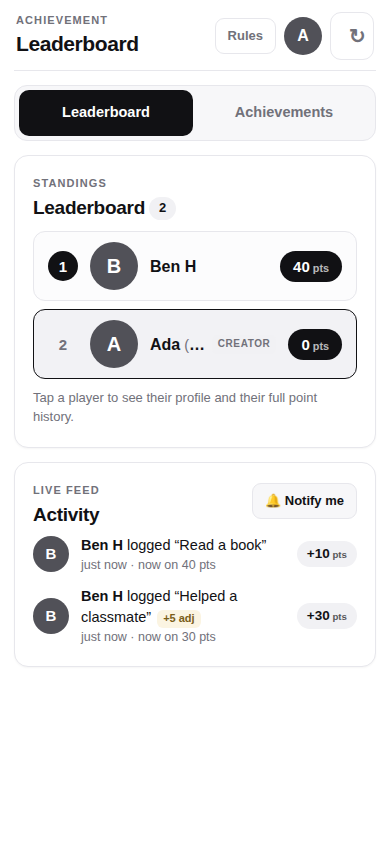
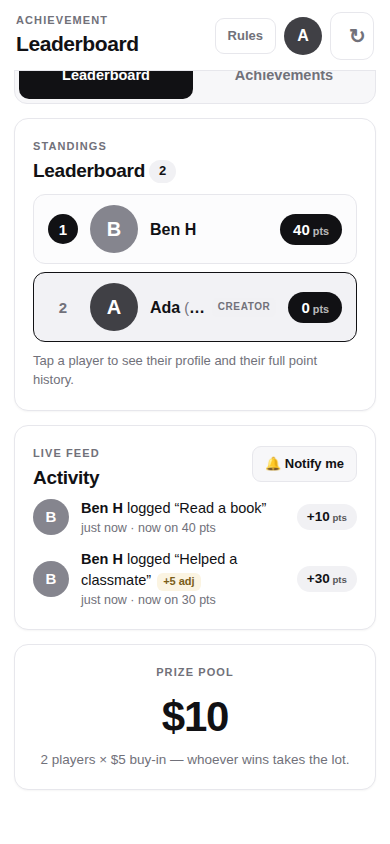
Add a live prize-pool counter under the live feed
A Prize pool card shows $5 times the current number of players in a
large dollar figure ('9 players x $5 buy-in — whoever wins takes the
lot'). It sits directly below the live feed in the right column on
desktop and under the feed on phones, and updates live as the roster
grows since it derives from the same player subscription.

Claude-Session: https://claude.ai/code/session_01LYf2avMi716NYizWVeRaHF

diff --git a/achievement-leaderboard.html b/achievement-leaderboard.html
@@ -312,6 +312,12 @@
     border-radius: 12px; padding: 28px 20px; color: var(--muted);
   }
   .feed-empty-title { font-weight: 700; font-size: 15.5px; color: var(--ink); margin-bottom: 4px; }
+  .pool-card { text-align: center; }
+  .pool-num {
+    font-size: 42px; font-weight: 800; letter-spacing: -0.03em;
+    font-variant-numeric: tabular-nums; margin: 6px 0 2px;
+  }
+  .pool-sub { color: var(--muted); font-size: 13.5px; margin: 0; }
   .feed-empty p { margin: 0; font-size: 14px; }
   .side-head { display: flex; justify-content: space-between; align-items: flex-start; gap: 10px; }
   .side-head .h2 { margin-bottom: 6px; }
@@ -1788,6 +1794,7 @@ function(a,b,c){if(!Vd(b))throw Error(m(200));return Wd(null,a,b,!1,c)};Q.unmoun
         <div className="col-main">${body}</div>
         ${showSide ? html`<aside className="side-feed">
           <${FeedPanel} logs=${logs} players=${players} achById=${achById} />
+          <${PoolCard} count=${Object.keys(players).length} />
         </aside>` : null}
       </div>
       ${statsFor ? html`<${Sheet} onClose=${function () { setStatsFor(null); }}>
@@ -2294,6 +2301,17 @@ function(a,b,c){if(!Vd(b))throw Error(m(200));return Wd(null,a,b,!1,c)};Q.unmoun
     </section>`;
   }
 
+  /* live prize pool: $5 buy-in times everyone currently in the game */
+  var BUY_IN = 5;
+  function PoolCard(props) {
+    var n = props.count;
+    return html`<section className="card pool-card">
+      <span className="eyebrow">Prize pool</span>
+      <div className="pool-num">$${fmtPts(n * BUY_IN)}</div>
+      <p className="pool-sub">${n} ${n === 1 ? 'player' : 'players'} \u00D7 $${BUY_IN} buy-in \u2014 whoever wins takes the lot.</p>
+    </section>`;
+  }
+
   function BoardTab(props) {
     var mode = props.mode || 'live';
     var isRoster = mode === 'roster';
@@ -2338,6 +2356,7 @@ function(a,b,c){if(!Vd(b))throw Error(m(200));return Wd(null,a,b,!1,c)};Q.unmoun
       </section>
       ${html`<div className="feed-inline">
         <${FeedPanel} logs=${props.logs} players=${props.players} achById=${props.achById} />
+        <${PoolCard} count=${Object.keys(props.players).length} />
       </div>`}
     </main>`;
   }

diff --git a/index.html b/index.html
@@ -318,6 +318,12 @@
     border-radius: 12px; padding: 28px 20px; color: var(--muted);
   }
   .feed-empty-title { font-weight: 700; font-size: 15.5px; color: var(--ink); margin-bottom: 4px; }
+  .pool-card { text-align: center; }
+  .pool-num {
+    font-size: 42px; font-weight: 800; letter-spacing: -0.03em;
+    font-variant-numeric: tabular-nums; margin: 6px 0 2px;
+  }
+  .pool-sub { color: var(--muted); font-size: 13.5px; margin: 0; }
   .feed-empty p { margin: 0; font-size: 14px; }
   .side-head { display: flex; justify-content: space-between; align-items: flex-start; gap: 10px; }
   .side-head .h2 { margin-bottom: 6px; }
@@ -1833,6 +1839,7 @@ function(a,b,c){if(!Vd(b))throw Error(m(200));return Wd(null,a,b,!1,c)};Q.unmoun
         <div className="col-main">${body}</div>
         ${showSide ? html`<aside className="side-feed">
           <${FeedPanel} logs=${logs} players=${players} achById=${achById} />
+          <${PoolCard} count=${Object.keys(players).length} />
         </aside>` : null}
       </div>
       ${statsFor ? html`<${Sheet} onClose=${function () { setStatsFor(null); }}>
@@ -2339,6 +2346,17 @@ function(a,b,c){if(!Vd(b))throw Error(m(200));return Wd(null,a,b,!1,c)};Q.unmoun
     </section>`;
   }
 
+  /* live prize pool: $5 buy-in times everyone currently in the game */
+  var BUY_IN = 5;
+  function PoolCard(props) {
+    var n = props.count;
+    return html`<section className="card pool-card">
+      <span className="eyebrow">Prize pool</span>
+      <div className="pool-num">$${fmtPts(n * BUY_IN)}</div>
+      <p className="pool-sub">${n} ${n === 1 ? 'player' : 'players'} \u00D7 $${BUY_IN} buy-in \u2014 whoever wins takes the lot.</p>
+    </section>`;
+  }
+
   function BoardTab(props) {
     var mode = props.mode || 'live';
     var isRoster = mode === 'roster';
@@ -2383,6 +2401,7 @@ function(a,b,c){if(!Vd(b))throw Error(m(200));return Wd(null,a,b,!1,c)};Q.unmoun
       </section>
       ${html`<div className="feed-inline">
         <${FeedPanel} logs=${props.logs} players=${props.players} achById=${props.achById} />
+        <${PoolCard} count=${Object.keys(props.players).length} />
       </div>`}
     </main>`;
   }

diff --git a/src/smoke-fb.js b/src/smoke-fb.js
@@ -213,6 +213,8 @@ const path = require('path');
     await a.waitForSelector('text=Scoring starts when the achievement list is finalized');
     await a.waitForSelector('.feed-empty');   // live feed box is present even before the game starts
     await a.waitForSelector('text=No one’s done anything yet');
+    // prize pool tracks the roster live: 2 players x $5
+    await a.waitForSelector('.pool-num:has-text("$10")');
     // the draft list is still reachable from the other tab
     await a.click('.seg-btn:has-text("Achievements")');
     await a.waitForSelector('text=You’re the game creator');
@@ -319,6 +321,7 @@ const path = require('path');
     if (await a.locator('.board-row').count() !== 4) {
       throw new Error('players lost in concurrent join: ' + JSON.stringify(await a.locator('.board-row').allTextContents()));
     }
+    await a.waitForSelector('.pool-num:has-text("$20")');   // pool grew live with the joins
   });
   await step('RACE: two players ticking at once both count', async () => {
     const pages = await Promise.all([newDevice(), newDevice()]);
@@ -348,6 +351,10 @@ const path = require('path');
     await wide.waitForSelector('.side-feed >> text=Live feed');
     await wide.waitForSelector('.side-feed >> text=now on');
     await wide.waitForSelector('.side-feed .adj-tag');
+    const feedBox = await wide.locator('.side-feed .card').first().boundingBox();
+    const poolBox = await wide.locator('.side-feed .pool-card').boundingBox();
+    if (!(poolBox.y > feedBox.y)) throw new Error('pool card not below the feed');
+    await wide.waitForSelector('.side-feed .pool-num:has-text("$20")');
     if (await wide.locator('.feed-inline').isVisible()) throw new Error('inline feed still visible on desktop');
     const mainBox = await wide.locator('.col-main').boundingBox();
     const sideBox = await wide.locator('.side-feed').boundingBox();

diff --git a/src/app.js b/src/app.js
@@ -1050,6 +1050,7 @@
         <div className="col-main">${body}</div>
         ${showSide ? html`<aside className="side-feed">
           <${FeedPanel} logs=${logs} players=${players} achById=${achById} />
+          <${PoolCard} count=${Object.keys(players).length} />
         </aside>` : null}
       </div>
       ${statsFor ? html`<${Sheet} onClose=${function () { setStatsFor(null); }}>
@@ -1556,6 +1557,17 @@
     </section>`;
   }
 
+  /* live prize pool: $5 buy-in times everyone currently in the game */
+  var BUY_IN = 5;
+  function PoolCard(props) {
+    var n = props.count;
+    return html`<section className="card pool-card">
+      <span className="eyebrow">Prize pool</span>
+      <div className="pool-num">$${fmtPts(n * BUY_IN)}</div>
+      <p className="pool-sub">${n} ${n === 1 ? 'player' : 'players'} \u00D7 $${BUY_IN} buy-in \u2014 whoever wins takes the lot.</p>
+    </section>`;
+  }
+
   function BoardTab(props) {
     var mode = props.mode || 'live';
     var isRoster = mode === 'roster';
@@ -1600,6 +1612,7 @@
       </section>
       ${html`<div className="feed-inline">
         <${FeedPanel} logs=${props.logs} players=${props.players} achById=${props.achById} />
+        <${PoolCard} count=${Object.keys(props.players).length} />
       </div>`}
     </main>`;
   }

diff --git a/src/page-top.html b/src/page-top.html
@@ -312,6 +312,12 @@
     border-radius: 12px; padding: 28px 20px; color: var(--muted);
   }
   .feed-empty-title { font-weight: 700; font-size: 15.5px; color: var(--ink); margin-bottom: 4px; }
+  .pool-card { text-align: center; }
+  .pool-num {
+    font-size: 42px; font-weight: 800; letter-spacing: -0.03em;
+    font-variant-numeric: tabular-nums; margin: 6px 0 2px;
+  }
+  .pool-sub { color: var(--muted); font-size: 13.5px; margin: 0; }
   .feed-empty p { margin: 0; font-size: 14px; }
   .side-head { display: flex; justify-content: space-between; align-items: flex-start; gap: 10px; }
   .side-head .h2 { margin-bottom: 6px; }
